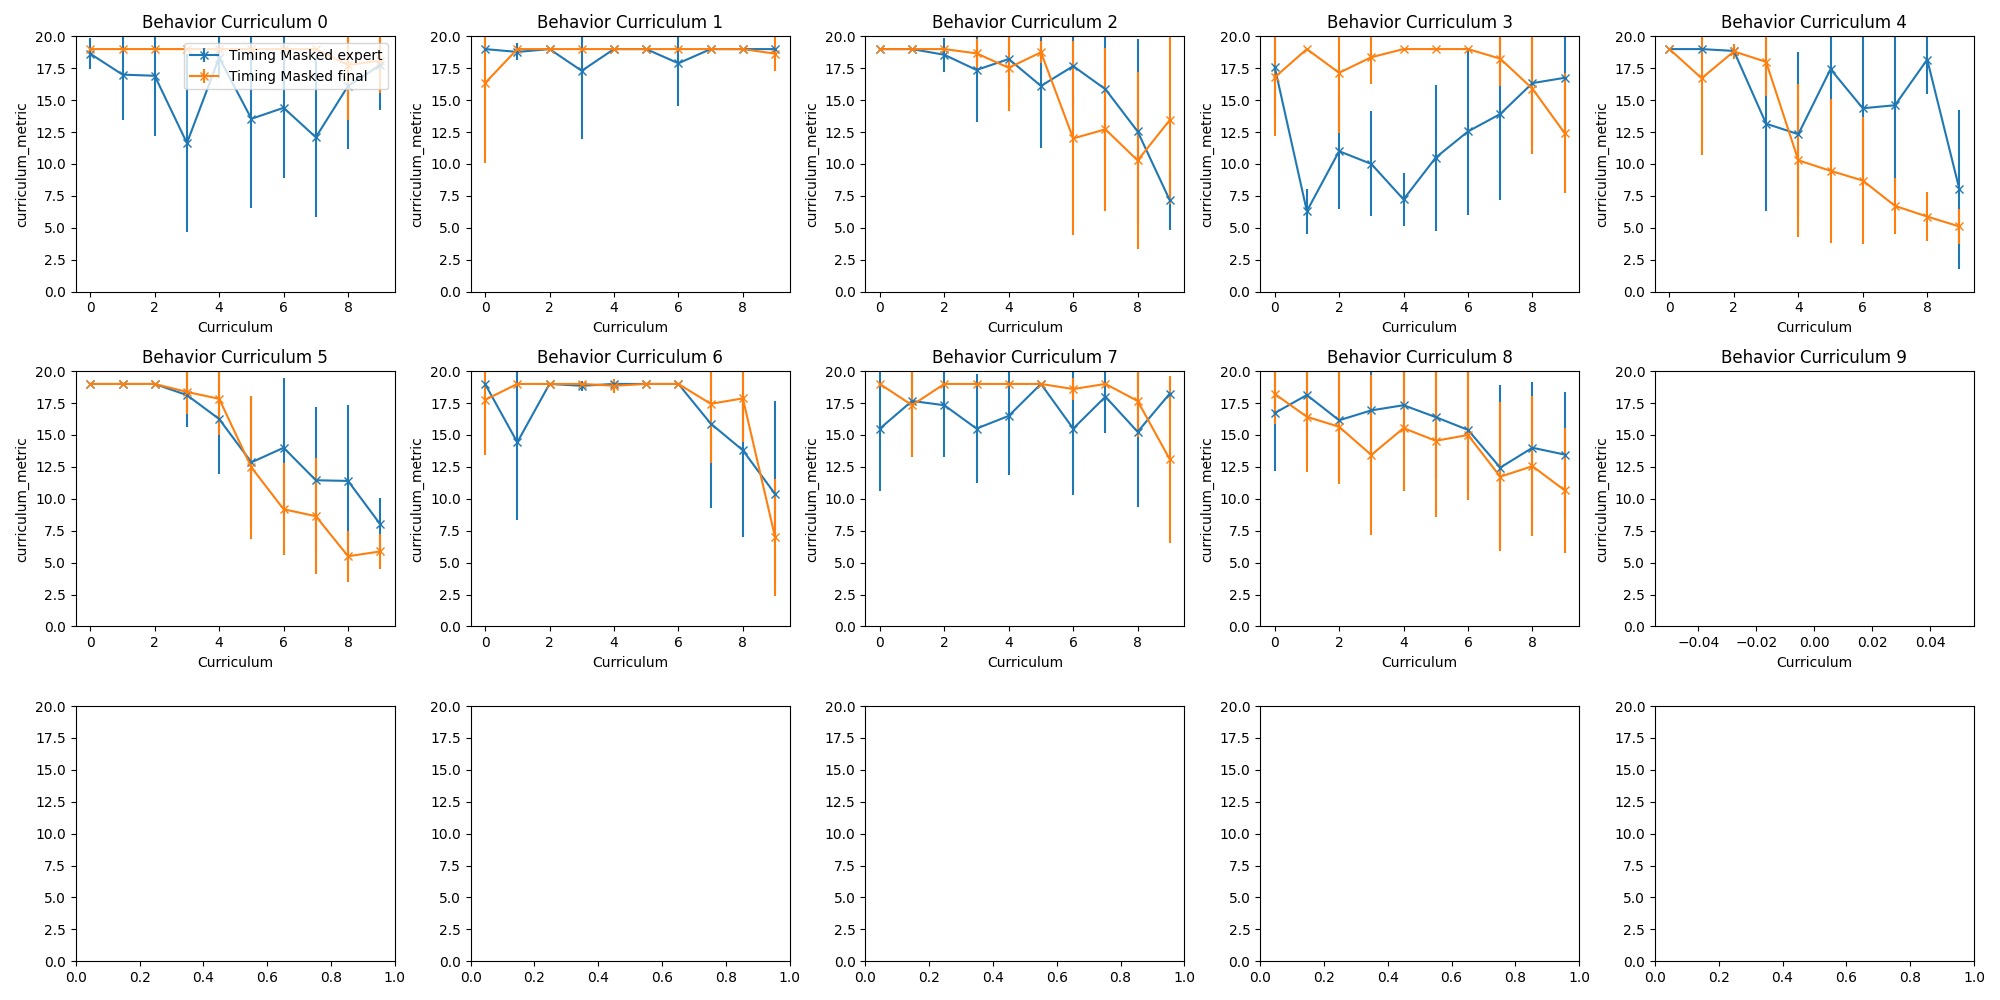
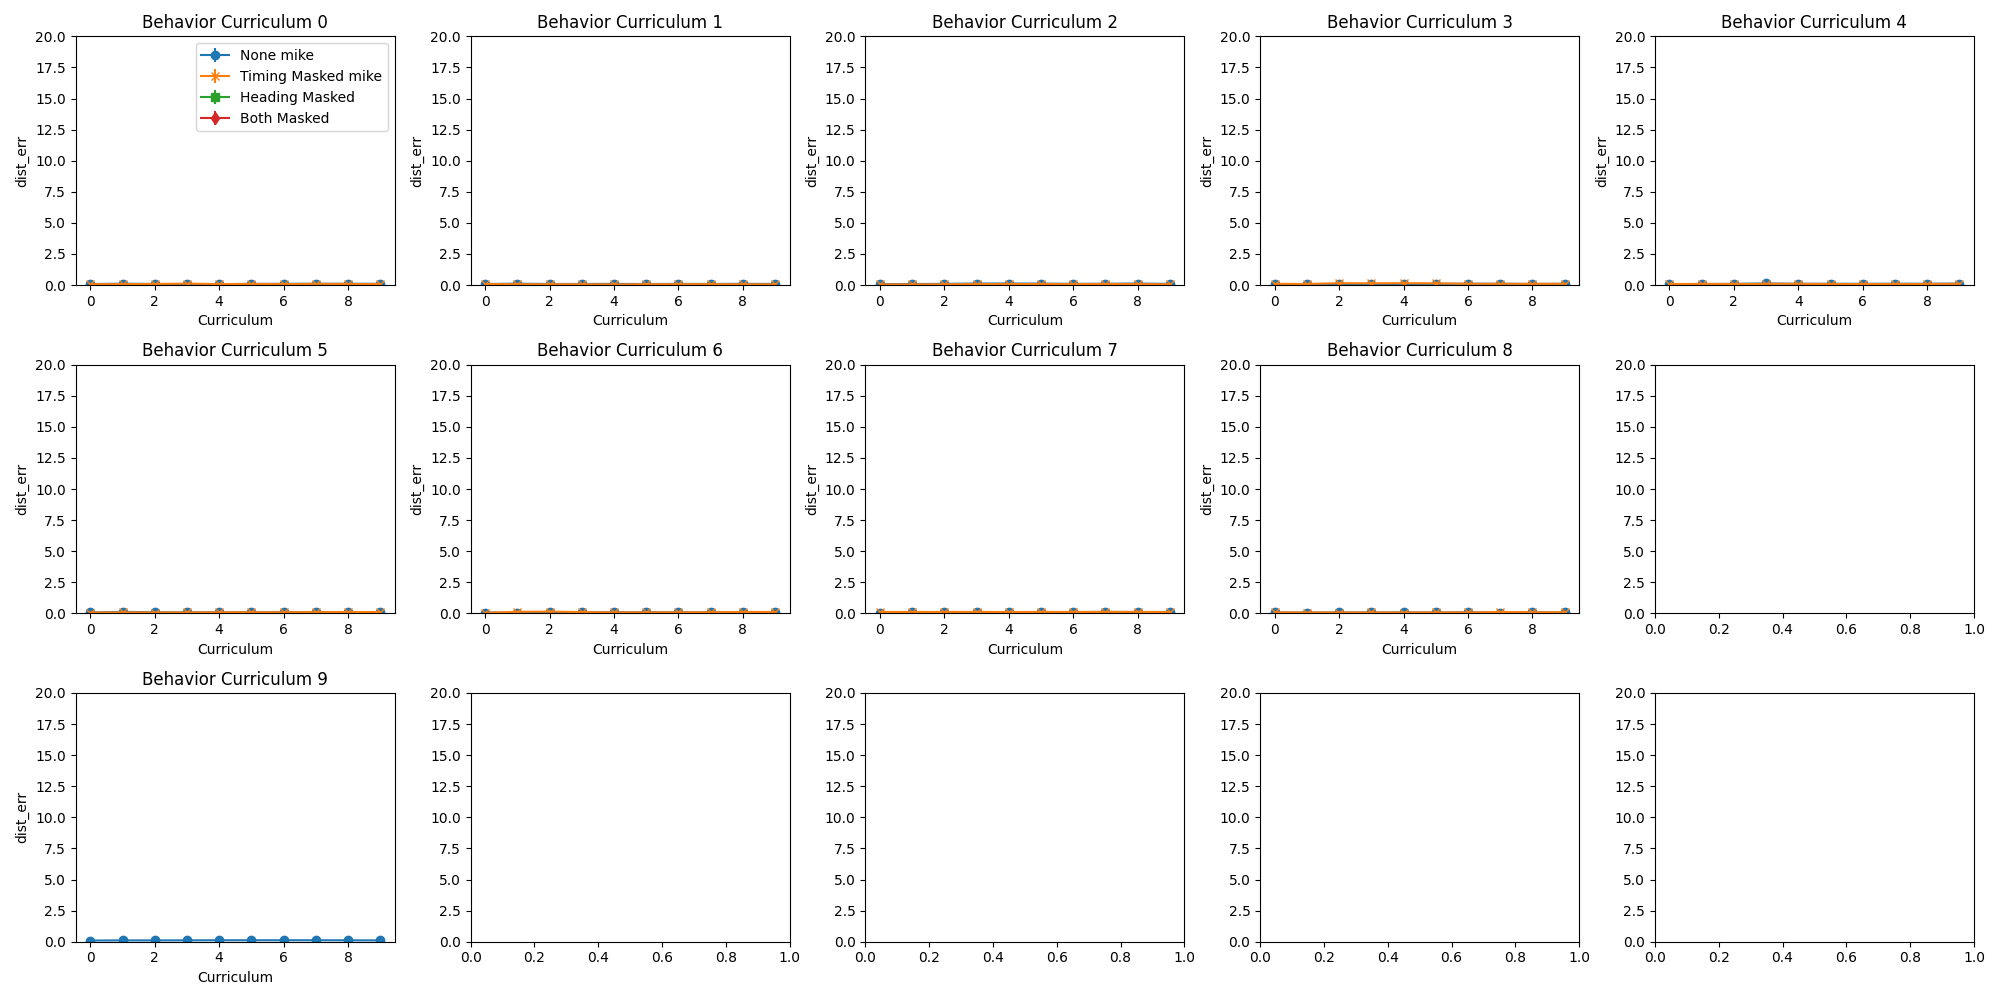
eval mike

diff --git a/plot_eval_data.py b/plot_eval_data.py
@@ -1,9 +1,13 @@
 import matplotlib.pyplot as plt
 import pandas as pd
 import numpy as np
+from bottleneck import nanmean
+
+import warnings
+warnings.filterwarnings("ignore")
 
 # Specify the column to plot
-column_to_plot = 'curriculum_metric'  # Change to 'timing_met', 'heading_err', 'dist_err', or 'curriculum_metric' as needed
+column_to_plot = 'curriculum_metric' # 'curriculum_metric'  # Change to 'timing_met', 'heading_err', 'dist_err', or 'curriculum_metric' as needed
 
 # Number of behavior curricula and curricula per behavior curriculum
 num_behavior_curricula = 10
@@ -16,8 +20,8 @@ fig, axes = plt.subplots(nrows=3, ncols=5, figsize=(20, 10))
 all_means = []
 all_stds = []
 
-folders = ["mike_heading_45"]
-folder_labels=["heading 45"]
+folders = ["non_heading_data"]
+folder_labels=["mike"]
 
 for behavior_curriculum in range(num_behavior_curricula):
     for i, folder in enumerate(folders):
@@ -81,9 +85,28 @@ for behavior_curriculum in range(num_behavior_curricula):
                 continue
 
         # Plot each subset on the same subplot for the current behavior curriculum
-        ax = axes.flatten()[behavior_curriculum]
-        ax.errorbar(curriculum_to_plot, means_none_nan, yerr=stds_none_nan, fmt='-o', label=f'None')
-        ax.errorbar(curriculum_to_plot, means_timing_nan, yerr=stds_timing_nan, fmt='-x', label=f'Timing Masked')
+        if folder != "experts" and behavior_curriculum in {9, 10}:
+            if behavior_curriculum == 9:
+                ax = axes.flatten()[10]
+            else:
+                ax = axes.flatten()[9]
+        else:
+            ax = axes.flatten()[behavior_curriculum]
+        
+        weights = np.linspace(1,10,len(curriculum_to_plot))
+        weights /= sum(weights)
+
+        steps_avg = nanmean([
+            np.average(np.ma.masked_array(means_none_nan, np.isnan(means_none_nan)), weights=weights),
+            np.average(np.ma.masked_array(means_timing_nan, np.isnan(means_timing_nan)), weights=weights),
+            np.average(np.ma.masked_array(means_heading_nan, np.isnan(means_heading_nan)), weights=weights),
+            np.average(np.ma.masked_array(means_both_nan, np.isnan(means_both_nan)), weights=weights),
+        ])
+
+        print(f"{behavior_curriculum}: {steps_avg}")
+
+        ax.errorbar(curriculum_to_plot, means_none_nan, yerr=stds_none_nan, fmt='-o', label=f'None {folder_labels[i]}')
+        ax.errorbar(curriculum_to_plot, means_timing_nan, yerr=stds_timing_nan, fmt='-x', label=f'Timing Masked {folder_labels[i]}')
         ax.errorbar(curriculum_to_plot, means_heading_nan, yerr=stds_heading_nan, fmt='-s', label='Heading Masked')
         ax.errorbar(curriculum_to_plot, means_both_nan, yerr=stds_both_nan, fmt='-d', label='Both Masked')
 
@@ -108,6 +131,6 @@ axes[0, 0].legend(loc='upper right')
 plt.tight_layout()
 plt.suptitle(f"{column_to_plot} across Curricula for Each Behavior Curriculum", y=1.02)
 import os
-img_path = f"{folders[0]}/results_all.png"
+img_path = f"{folders[0]}/results_timing.png"
 plt.savefig(img_path)
 plt.show()
